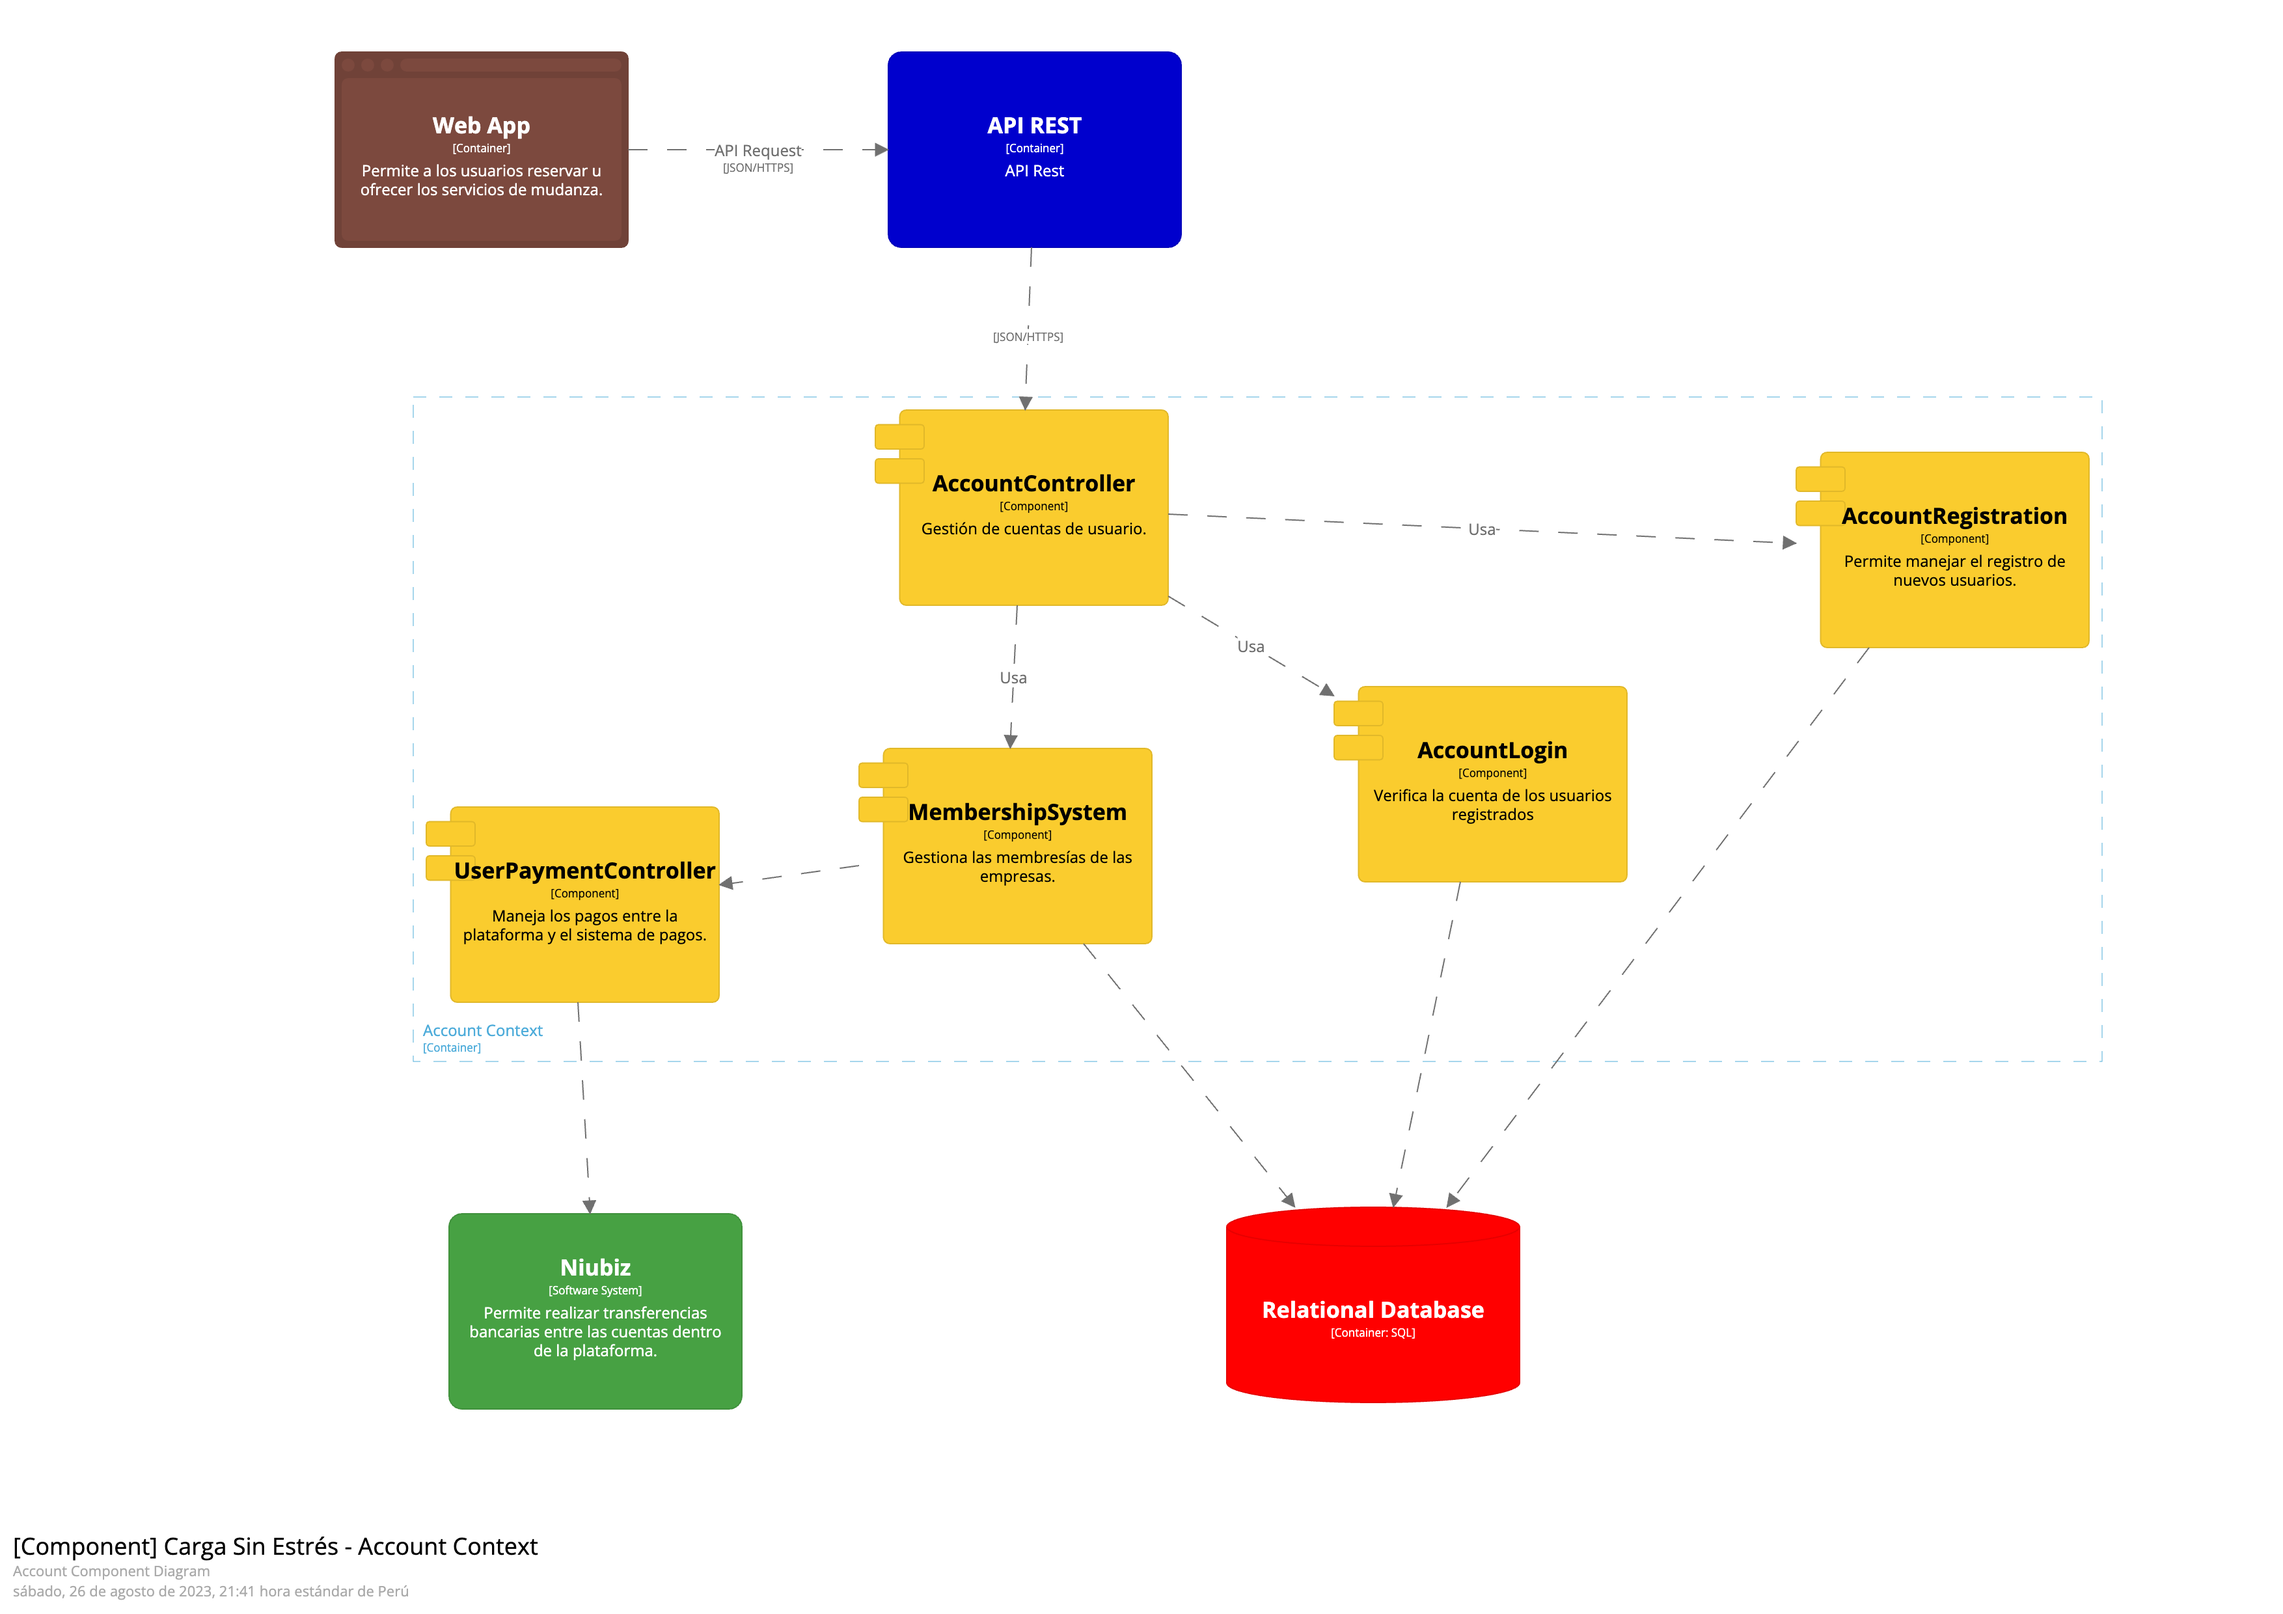
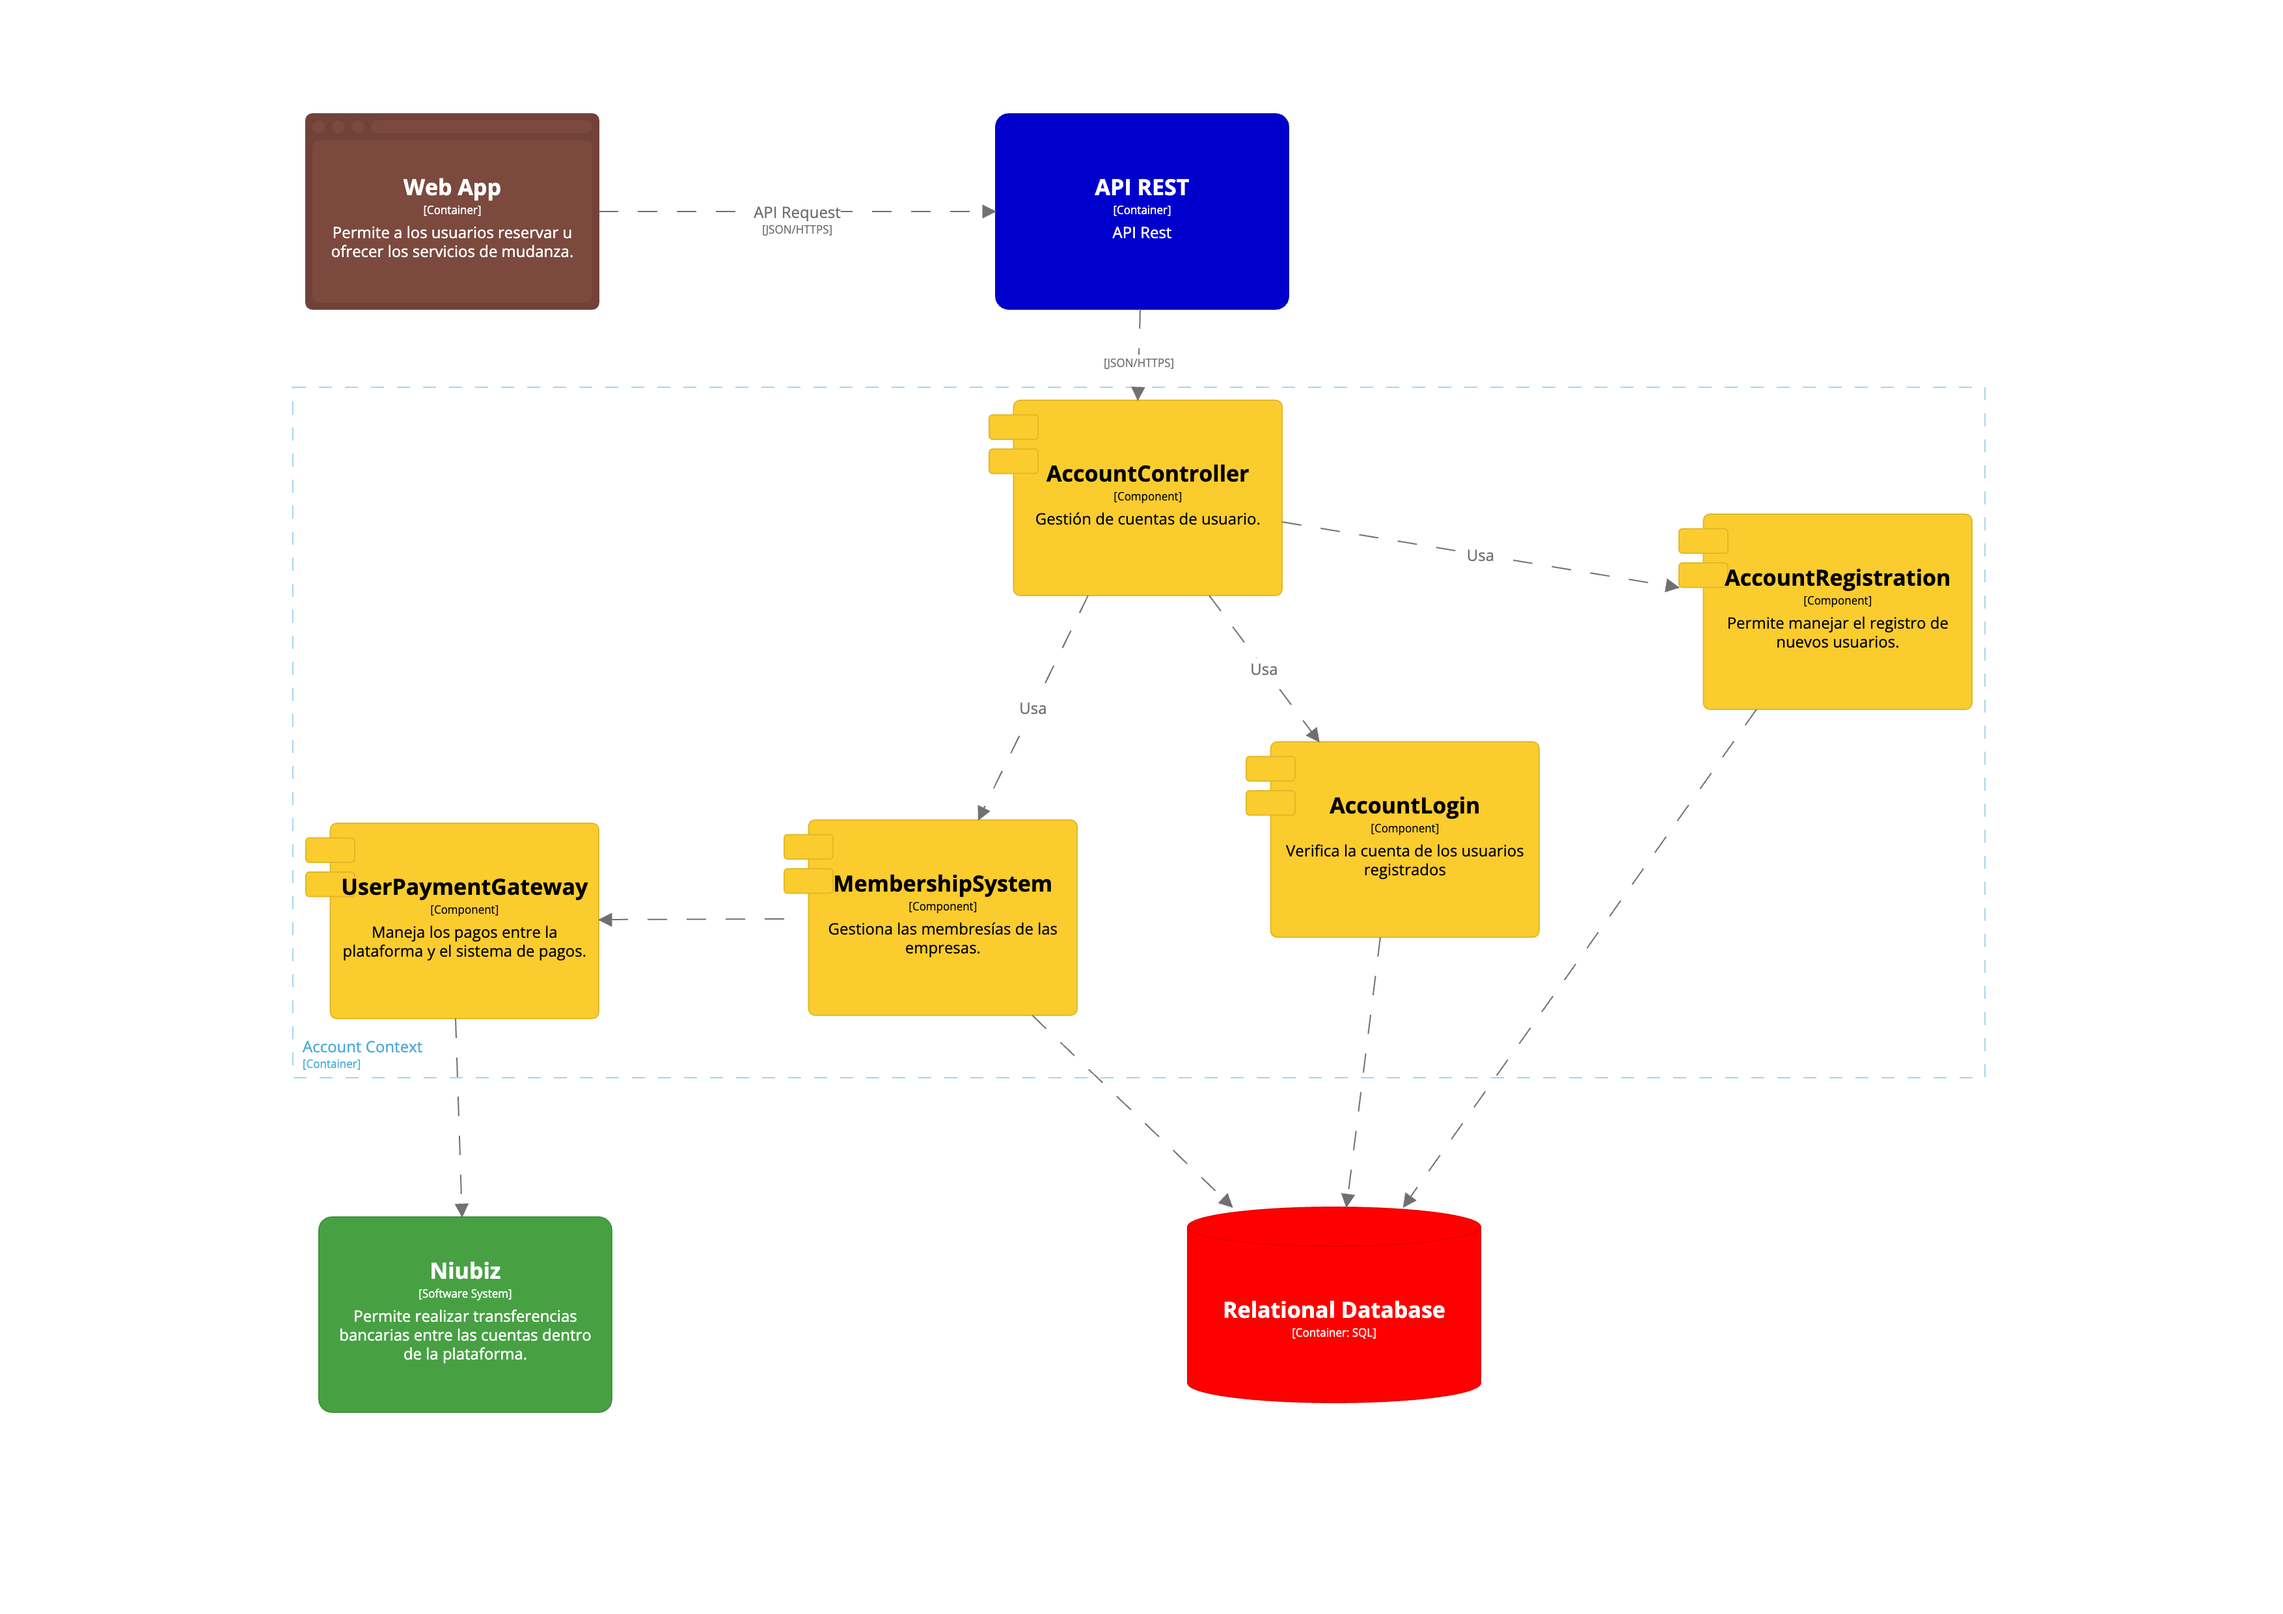
Update c4 diagram

diff --git a/Informe/Informe_capitulo3y4.md b/Informe/Informe_capitulo3y4.md
@@ -237,15 +237,25 @@ Los diagramas c4 se realizaron con Structurizr.   Enlace:[https://www.structuriz
   
 ### 4.6.1. Software Architecture Context Diagram.
 
+En el diagrama de contexto se observa la relación de tipos de usuarios que interactúan con la aplicación, los cuales son "Ciudadano" y "Empresa". Así como los sistemas externos que se utilizan para el funcionamiento de la aplicación como el sistema de pago Niubiz.  
+
 ![Context Diagram](https://github.com/LuceroObispoRios/Grupo1_SW53/blob/main/Informe/Imagenes/Contexto.png?raw=true)  
+
 
 ### 4.6.2. Software Architecture Container Diagrams.
 
+En el diagrama de contenedores se observa la relación de los componentes dentro de nuestra aplicación, como el landing page, la aplicación web, los contextos, la base de datos y el API REST.
+
 ![Container Diagram](https://github.com/LuceroObispoRios/Grupo1_SW53/blob/main/Informe/Imagenes/Contenedor.png?raw=true)  
 
-### 4.6.3. Software Architecture Components Diagrams.
-**Service Context**
 
+### 4.6.3. Software Architecture Components Diagrams.
+
+Los componentes de nuestra aplicación se dividen en 3 contextos, y los patrones utilizados son los siguientes:  
+El patrón **Repository** utilizado para separar la capa de acceso a datos de la capa de la lógica de negocio. Además, ayuda a decidir si debe recuperar datos de una red o usar resultados almacenados en caché de una base de datos local, lo que mejora la gestión de datos y la eficiencia de la aplicación.  
+El patrón **Gateway** utilizado para actuar como un intermediario entre nuestra aplicación y un sistema de pago externo Niubiz. Este enfoque nos proporciona una capa de abstracción que simplifica la comunicación y gestión de pagos, al tiempo que garantiza la seguridad y la flexibilidad en nuestras transacciones financieras.  
+
+**Service Context**
 ![Service Component Diagram](https://github.com/LuceroObispoRios/Grupo1_SW53/blob/main/Informe/Imagenes/ServiceComponents.png?raw=true)  
 
 **Account Context**

diff --git a/Informe/Informe_capitulo1y2.md b/Informe/Informe_capitulo1y2.md
@@ -146,7 +146,7 @@ Fotografia de Perfil:
 Carrera: Ingenieria de Software  
 Acerca De: Las habilidades que puedo aportar al equipo incluyen organización y responsabilidad. Dispuesta a trabajar en equipo para llevar a cabo el proyecto. Tengo conocimiento de los lenguajes de programación c + + y SQL.  
 Fotografia de Perfil:  
-<img src="https://github.com/LuceroObispoRios/Grupo1_SW53/blob/main/Informe/Imagenes/integrante4.jpg?raw=true" width="300" height="356">
+<img src="https://github.com/LuceroObispoRios/Grupo1_SW53/blob/main/Informe/Imagenes/integrante4.jpg?raw=true" width="300" height="356" style="margin-left:30px;">
 
 ## 1.2 Solution profile  
 ### 1.2.1 Antecendentes y problematica  
